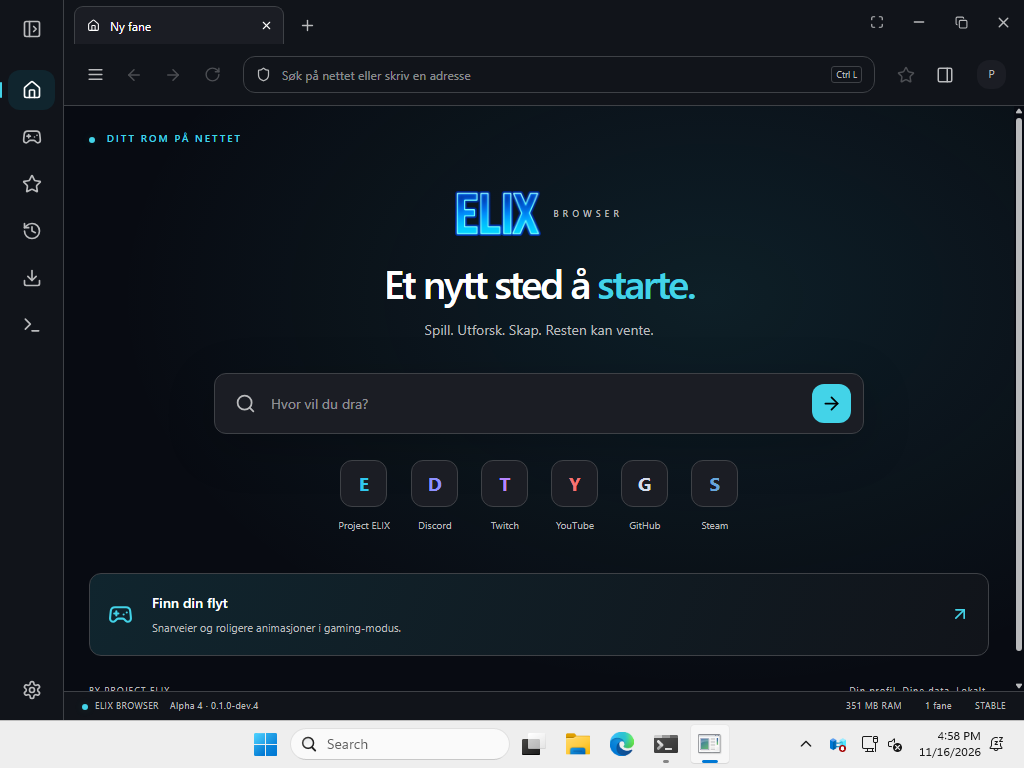
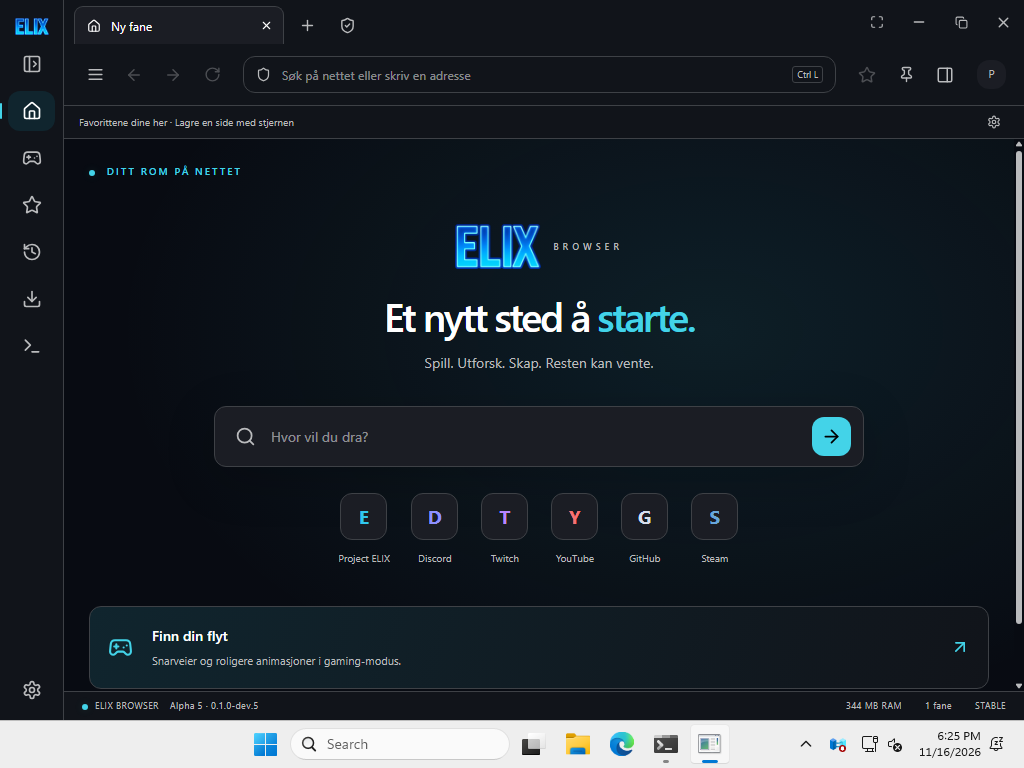
Publish verified Alpha 5 website, Windows capture and validation record

diff --git a/website/index.html b/website/index.html
@@ -1,13 +1,17 @@
-<!doctype html><html lang="nb"><head><meta charset="utf-8"><meta name="viewport" content="width=device-width, initial-scale=1"><meta name="description" content="ELIX Browser: et minimalistisk Windows-prosjekt med gaming-design, Rust og ekte WebView2-utviklerverktøy."><title>ELIX Browser Alpha 4 — Last ned for Windows</title><link rel="icon" type="image/png" href="elix-mark.png"><link rel="stylesheet" href="style.css?v=alpha4-1"><script src="releases.js?v=alpha4-1" type="module"></script></head><body>
+<!doctype html><html lang="nb"><head><meta charset="utf-8"><meta name="viewport" content="width=device-width, initial-scale=1"><meta name="description" content="ELIX Browser: et minimalistisk Windows-prosjekt med gaming-design, Rust og ekte WebView2-utviklerverktøy."><title>ELIX Browser Alpha 5 — Last ned for Windows</title><link rel="icon" type="image/png" href="elix-mark.png"><link rel="stylesheet" href="style.css?v=alpha5-1"><script src="releases.js?v=alpha5-1" type="module"></script></head><body>
 <header><a class="brand" href="#"><img src="elix-mark.png" alt="ELIX"><span><small>BROWSER</small></span></a><nav aria-label="Hovedmeny"><a href="#opplevelsen">Opplevelsen</a><a href="#innstillinger">Innstillinger</a><a href="#utvikler">For utviklere</a><a href="#utgivelser">Utgivelser</a><a class="nav-button" href="#last-ned">Windows ↓</a></nav></header>
-<main><section class="hero"><div class="eyebrow"><span class="dot"></span> ALPHA 4 · 0.1.0-dev.4 · WINDOWS</div><h1>Ditt rom.<br>Ditt tempo.<br><em>Din nettleser.</em></h1><p class="intro">Et rent skrivebord på nettet. ELIX samler surfing, gaming og utviklerverktøy i ett rolig, mørkt grensesnitt.</p><div class="hero-actions"><a class="primary" href="#last-ned">Prøv Alpha 4 <span>↗</span></a><a href="https://github.com/project-elix/elix-browser">Utforsk prosjektet →</a></div><p class="small" id="hero-status">Alpha 4 er tilgjengelig for Windows x64. Ingen egen server nødvendig.</p><div class="orbit" aria-hidden="true"><span><img src="elix-mark.png" alt="" class="orbit-logo"></span><i></i><b>ELIX / 01</b></div></section>
-<section class="product" id="opplevelsen"><div class="section-label"><span>01 / OPPLEVELSEN</span><span>MINDRE STØY. MER PLASS.</span></div><figure><img src="windows-start.png" alt="Skjermbilde av ELIX sitt faktiske grensesnitt med faner, søk og snarveier" width="1024" height="768"><figcaption>Alpha 4 installert på Windows. Velg Developer i innstillingene for kommende alpha-oppdateringer.</figcaption></figure><div class="feature-columns"><article><span>01</span><h2>En fane til.<br>Uten rotet.</h2><p>Adressefelt, navigasjon, bokmerker og historikk. Egne profiler holder cookies og nettleserdata adskilt.</p></article><article><span>02</span><h2>Plass til<br>neste økt.</h2><p>Gaming-dashboard, fem temaer og dine egne farger. Velg kompakt visning og færre animasjoner. Valgfri dvale frigjør nettvisninger.</p></article><article><span>03</span><h2>Dine data.<br>På din maskin.</h2><p>Lokale bokmerker, historikk og innstillinger. Ingen automatisk opplasting av diagnostikk eller surfehistorikk.</p></article></div></section>
-<section class="configuration" id="innstillinger"><div class="section-label"><span>NYTT / TILPASS ELIX</span><span>INKLUDERT I ALPHA 4</span></div><h2>Sett ditt eget preg på ELIX.</h2><p>Åpne Innstillinger fra sidemenyen, eller skriv <code>elix://settings</code> i adressefeltet. Velg kategori for å finne det du trenger.</p><div class="feature-columns"><article><span>FARGER OG UTSEENDE</span><h3>Fem temaer. Dine farger.</h3><p>Velg et ferdig tema eller egen aksent- og bakgrunnsfarge. Juster avrundede hjørner, kompakt visning, fargespill på startsiden og animasjoner. Trykk «Lagre utseende».</p></article><article><span>NY SIDEMENY</span><h3>Ikoner, tekst eller mer plass.</h3><p>Utvid sidemenyen med navn på knappene, bruk bare ikoner eller skjul den helt. Menyknappen ved adressefeltet henter den fram igjen. Valget lagres. F11 gir fullskjerm, Escape går ut.</p></article><article><span>OPPDATERINGER</span><h3>Velg Developer for alpha.</h3><p>Under Oppdateringer velger du «Developer» eller «Motta alpha-oppdateringer». Trykk deretter «Se etter oppdateringer». Du velger selv når en ny versjon skal installeres.</p></article></div><aside class="update-help"><h3>Oppdater direkte fra Alpha 3</h3><p>Velg <strong>Innstillinger → Oppdateringer → Developer → Se etter oppdateringer</strong>. Når Alpha 4 tilbys, trykker du «Oppdater nå». Etter nedlasting og signaturkontroll velger du «Installer og start på nytt».</p><p>Alpha 4 viser kanalstatus tydeligere når en kanal mangler utgivelsesinformasjon. Stable og Beta har ingen utgivelser ennå. <strong>0.1.0-dev.4 betyr Alpha 4.</strong> Farger og brukerdata beholdes.</p></aside></section>
+<main><section class="hero"><div class="eyebrow"><span class="dot"></span> ALPHA 5 · 0.1.0-dev.5 · WINDOWS</div><h1>Ditt rom.<br>Ditt tempo.<br><em>Din nettleser.</em></h1><p class="intro">Et rent skrivebord på nettet. ELIX samler surfing, gaming og utviklerverktøy i ett rolig, mørkt grensesnitt.</p><div class="hero-actions"><a class="primary" href="#last-ned">Prøv Alpha 5 <span>↗</span></a><a href="https://github.com/project-elix/elix-browser">Utforsk prosjektet →</a></div><p class="small" id="hero-status">Alpha 5 er tilgjengelig for Windows x64. Ingen egen server nødvendig.</p><div class="orbit" aria-hidden="true"><span><img src="elix-mark.png" alt="" class="orbit-logo"></span><i></i><b>ELIX / 01</b></div></section>
+<section class="product" id="opplevelsen"><div class="section-label"><span>01 / OPPLEVELSEN</span><span>MINDRE STØY. MER PLASS.</span></div><figure><img src="windows-start.png?v=alpha5-1" alt="ELIX Browser Alpha 5 installert på Windows med sidemeny, faner og adressefelt" width="1024" height="768"><figcaption>Alpha 5 installert på Windows. Velg Developer i innstillingene for kommende alpha-oppdateringer.</figcaption></figure><div class="feature-columns"><article><span>01</span><h2>En fane til.<br>Uten rotet.</h2><p>Fest faner, finn tilbake med Ctrl+H og få adresseforslag fra lokale besøk, tidligere søk og bokmerker. Fanene viser nettsidens eget ikon.</p></article><article><span>02</span><h2>Plass til<br>neste økt.</h2><p>Gaming-dashboard, fem temaer og dine egne farger. Velg kompakt visning og færre animasjoner. Valgfri dvale frigjør nettvisninger.</p></article><article><span>03</span><h2>Dine data.<br>På din maskin.</h2><p>Egne profiler, private faner og lokale innstillinger. Nedlastingsloggen for vanlige faner huskes etter omstart. Ingen automatisk opplasting av diagnostikk eller surfehistorikk.</p></article></div></section>
+<section class="configuration" id="innstillinger"><div class="section-label"><span>NYTT / TILPASS ELIX</span><span>INKLUDERT I ALPHA 5</span></div><h2>Sett ditt eget preg på ELIX.</h2><p>Åpne Innstillinger fra sidemenyen, eller skriv <code>elix://settings</code> i adressefeltet. Velg kategori for å finne det du trenger.</p><div class="feature-columns"><article><span>FARGER OG UTSEENDE</span><h3>Fem temaer. Dine farger.</h3><p>Velg tema, aksent- og bakgrunnsfarge, avrundede hjørner, kompakt visning og animasjoner. Trykk «Lagre utseende» for å beholde valgene etter omstart.</p></article><article><span>SIDEMENY OG BOKMERKER</span><h3>Favorittene der du vil ha dem.</h3><p>Velg ikoner, ikoner med tekst eller skjult sidemeny. Under «Farger og utseende → Bokmerker» velger du venstremenyen, under adressefeltet eller skjulte snarveier. Trykk «Lagre utseende». Menyknappen ved adressefeltet viser sidemenyen igjen.</p></article><article><span>FANER OG LOGG</span><h3>Fest de du bruker mest.</h3><p>Trykk på festeknappen ved adressefeltet, eller høyreklikk på en fane og velg «Fest fane». Vanlige festede faner huskes etter omstart. Ctrl+H åpner loggen med søk og klokkeslett. Ctrl+J åpner nedlastinger.</p></article><article><span>PRIVATMODUS OG TILLATELSER</span><h3>Et eget privat besøk.</h3><p>Åpne en privat fane med skjoldknappen eller Ctrl+Shift+N. Private besøk tas ikke med i loggen eller lagrede faner. Kamera og mikrofon krever et valg for hver forespørsel; ELIX viser hvilket nettsted som ber om tilgang.</p></article><article><span>PASSORD OG AUTOFYLL</span><h3>Velg hva profilen husker.</h3><p>Under «Passord og autofyll» kan du slå på tilbud om passordlagring og autofyll av navn og adresser. Begge er av som standard. Du kan slette alle lagrede passord i aktiv profil. Enkeltpassord kan foreløpig ikke vises eller redigeres.</p></article><article><span>UTVIDELSER</span><h3>Legg til fra en lokal mappe.</h3><p>Under «Utvidelser» velger du en utpakket mappe med manifest.json. Listen lar deg slå utvidelser av og på eller fjerne dem fra profilen. Chrome Nettmarked og egne popupknapper i verktøylinjen støttes ikke. Utvidelser er av i private faner.</p></article></div><aside class="update-help"><h3>Oppdater direkte fra Alpha 3 eller 4</h3><p>Velg <strong>Innstillinger → Oppdateringer → Developer → Se etter oppdateringer</strong>. Når Alpha 5 tilbys, trykker du «Oppdater nå». Etter nedlasting og signaturkontroll velger du «Installer og start på nytt».</p><p><strong>0.1.0-dev.5 betyr Alpha 5.</strong> Farger, profiler, bokmerker og øvrige brukerdata beholdes. Stable og Beta har ingen utgivelser ennå. Et kanalbytte nedgraderer ikke nettleseren.</p></aside></section>
 <section class="developer" id="utvikler"><div><div class="eyebrow">02 / ÅPNE PANSERET</div><h2>Verktøy for deg<br>som vil <em>forstå.</em></h2><p>Aktiver Developer Mode og åpne nettsidens egne WebView2 DevTools. Inspiser DOM og CSS, feilsøk JavaScript og følg nettverkstrafikken.</p><div class="keys"><kbd>F12</kbd><span>eller</span><kbd>Ctrl</kbd> + <kbd>Shift</kbd> + <kbd>I</kbd></div><p class="small">Tilgjengelig for alle som slår det på i innstillingene.</p></div><div class="terminal"><div class="terminal-top"><i></i><i></i><i></i><span>elix://developer</span></div><p><span class="cyan">↳</span> Ressursmålinger</p><ul><li>CPU og RAM for ELIX-prosessene</li><li>Minnehistorikk og prosessantall</li><li>WebView2- og systemversjoner</li><li>Hoveddokumentets HTTP-status</li><li>Lokale hendelses- og oppdateringslogger</li></ul><div class="terminal-note">Faktiske målinger.<br>Utilgjengelige verdier merkes tydelig.</div></div></section>
-<section class="download-section" id="last-ned"><div class="eyebrow">03 / WINDOWS</div><h2>Neste stopp: <em>ELIX.</em></h2><p id="download-intro">Test ELIX på din egen Windows-PC. Nettleseren kjører lokalt og trenger ingen ELIX-server.</p><div class="release-box" id="alpha"><div><span class="pill">ALPHA 4 · TESTVERSJON</span><h3>ELIX Browser Alpha 4</h3><p id="alpha-date">0.1.0-dev.4 · Utgitt 16. november 2026 · Windows x64</p></div><a id="alpha-download" class="primary" href="https://github.com/project-elix/elix-browser/releases/download/v0.1.0-dev.4/ELIX.Browser_0.1.0-dev.4_x64-setup.exe">Last ned Alpha 4 <span>↓</span></a></div><p class="small" id="alpha-status">Publisert. Nedlasting og permanent oppdateringssignatur er kontrollert. <a href="https://github.com/project-elix/elix-browser/releases/tag/v0.1.0-dev.4">Utgivelsesnotater og signatur ↗</a></p><p class="small">Har du Alpha 3 på Developer-kanalen, velg «Se etter oppdateringer» og «Oppdater nå». Alpha 1/2 oppgraderes manuelt uten å slette brukerdata. Velg deretter Developer under Innstillinger → Oppdateringer. Kommende alpha-versjoner tilbys i nettleseren, og signaturen kontrolleres før installasjon. Du velger selv om oppdateringen skal installeres. Programmet er ikke Authenticode-signert, så Windows kan vise «ukjent utgiver» eller SmartScreen. Dette er en tidlig testversjon.</p><details><summary>Stabile utgivelser</summary><div class="release-box"><div><span class="pill" id="release-pill">UNDER UTVIKLING</span><h3 id="release-version">Ingen stabil utgivelse ennå</h3><p id="release-date">Nedlasting er ikke åpnet.</p></div><a id="download-button" class="primary disabled" aria-disabled="true">Last ned for Windows <span>↓</span></a></div><p class="small" id="release-status" role="status">Sjekker offisiell utgivelseskanal …</p></details><div class="requirements"><div><h3>Systemkrav</h3><p>Windows 11, 64-bit (x64). Microsoft Edge WebView2 Evergreen Runtime. Installasjonsprogrammet henter runtime ved behov. Nettforbindelse kreves for dette.</p><p class="small">ARM64, andre operativsystemer og maskinvareminimum er ikke kvalifisert i første versjon.</p></div><div><h3>Kom i gang</h3><ol><li>Last ned Alpha 4-installasjonsfilen med knappen over.</li><li>Kjør installasjonen for din Windows-bruker.</li><li>Åpne ELIX Browser og skriv inn en adresse.</li><li>Velg Innstillinger → Oppdateringer → Developer for kommende testversjoner.</li><li>Aktiver utviklermodus under Innstillinger hvis du ønsker DevTools.</li></ol></div></div></section>
-<section class="releases" id="utgivelser"><div class="section-label"><span>04 / UTGIVELSER</span><a href="https://github.com/project-elix/elix-browser/releases">Alle publiserte versjoner ↗</a></div><h2>Hva er nytt?</h2><pre id="release-notes">Alpha 4 · 0.1.0-dev.4 · 16. november 2026
+<section class="download-section" id="last-ned"><div class="eyebrow">03 / WINDOWS</div><h2>Neste stopp: <em>ELIX.</em></h2><p id="download-intro">Test ELIX på din egen Windows-PC. Nettleseren kjører lokalt og trenger ingen ELIX-server.</p><div class="release-box" id="alpha"><div><span class="pill">ALPHA 5 · TESTVERSJON</span><h3>ELIX Browser Alpha 5</h3><p id="alpha-date">0.1.0-dev.5 · Utgitt 16. november 2026 · Windows x64</p></div><a id="alpha-download" class="primary" href="https://github.com/project-elix/elix-browser/releases/download/v0.1.0-dev.5/ELIX.Browser_0.1.0-dev.5_x64-setup.exe">Last ned Alpha 5 <span>↓</span></a></div><p class="small" id="alpha-status">Publisert. Nedlasting og permanent oppdateringssignatur er kontrollert. <a href="https://github.com/project-elix/elix-browser/releases/tag/v0.1.0-dev.5">Utgivelsesnotater og signatur ↗</a></p><p class="small">Har du Alpha 3 eller 4 på Developer-kanalen, velg «Se etter oppdateringer» og «Oppdater nå». Alpha 1/2 oppgraderes manuelt uten å slette brukerdata. Velg deretter Developer under Innstillinger → Oppdateringer. Kommende alpha-versjoner tilbys i nettleseren, og signaturen kontrolleres før installasjon. Du velger selv om oppdateringen skal installeres. Programmet er ikke Authenticode-signert, så Windows kan vise «ukjent utgiver» eller SmartScreen. Dette er en tidlig testversjon.</p><details><summary>Stabile utgivelser</summary><div class="release-box"><div><span class="pill" id="release-pill">UNDER UTVIKLING</span><h3 id="release-version">Ingen stabil utgivelse ennå</h3><p id="release-date">Nedlasting er ikke åpnet.</p></div><a id="download-button" class="primary disabled" aria-disabled="true">Last ned for Windows <span>↓</span></a></div><p class="small" id="release-status" role="status">Sjekker offisiell utgivelseskanal …</p></details><div class="requirements"><div><h3>Systemkrav</h3><p>Windows 11, 64-bit (x64). Microsoft Edge WebView2 Evergreen Runtime. Installasjonsprogrammet henter runtime ved behov. Nettforbindelse kreves for dette.</p><p class="small">ARM64, andre operativsystemer og maskinvareminimum er ikke kvalifisert i første versjon.</p></div><div><h3>Kom i gang</h3><ol><li>Last ned Alpha 5-installasjonsfilen med knappen over.</li><li>Kjør installasjonen for din Windows-bruker.</li><li>Åpne ELIX Browser og skriv inn en adresse.</li><li>Velg Innstillinger → Oppdateringer → Developer for kommende testversjoner.</li><li>Aktiver utviklermodus under Innstillinger hvis du ønsker DevTools.</li></ol></div></div></section>
+<section class="releases" id="utgivelser"><div class="section-label"><span>04 / UTGIVELSER</span><a href="https://github.com/project-elix/elix-browser/releases">Alle publiserte versjoner ↗</a></div><h2>Hva er nytt?</h2><pre id="release-notes">Alpha 5 · 0.1.0-dev.5 · 16. november 2026
 
-Ny sidemeny: bare ikoner, ikoner med tekst eller helt skjult. Innstillinger er delt i kategorier. Alpha-navnet vises tydelig sammen med versjonen. Tomme eller utilgjengelige oppdateringskanaler får en informativ melding. Meny- og fargeendringer beholder en ventende oppdatering.
+ELIX-logoen er tilbake. Fanene viser ekte favikoner og kan festes. Adressefeltet foreslår lokale besøk, tidligere søk og bokmerker. Bokmerker kan ligge til venstre eller under adressefeltet. Ctrl+H åpner loggen. Oppstart og nettsideinnlasting viser status og feil tydeligere.
 
-Ingen egen server kreves. Alpha 3 på Developer-kanalen kan hente oppdateringen direkte i ELIX. Eldre alpha-utgaver oppgraderes manuelt. Oppdateringssignaturen er ikke et Windows-utgiversertifikat. Stabil utgivelse kommer etter videre testing.</pre><details><summary>Stable, Beta eller Developer?</summary><p>Stable er for ordinære utgivelser. Beta gir tidlig tilgang og kan ha feil. Developer er eksperimentell. Alle offisielle oppdateringer må være digitalt signert. Developer gir alpha-oppdateringer. Stable har ennå ingen publisert versjon. Et kanalbytte nedgraderer ikke en nyere installert versjon.</p></details><details><summary>Hva er ikke klart i første versjon?</summary><p>Utvidelser, privatmodus, passordbehandling, flere hovedvinduer, nettsidetillatelser for kamera og mikrofon, automatisk krasjinnsending og ressursmålinger per fane er ikke implementert. Dvale laster siden på nytt og kan miste ulagrede skjemaer. Den automatiserte, signerte oppgraderingen fra 0.1.0 til 0.1.1 er testet på Windows. Manuelle tester av skjermskalering, avbrudd og installasjonsgjenoppretting gjenstår før stabil lansering.</p></details><details id="personvern"><summary>Personvern</summary><p>ELIX lagrer historikk, bokmerker, innstillinger og profildata lokalt. WebView2 lagrer blant annet cookies og nettsteddata i den valgte profilen. Nettsider du besøker, Google ved søk, Microsoft ved runtime-installasjon og GitHub ved oppdateringssjekk mottar nødvendige nettverksforespørsler, inkludert IP-adresse.</p><p>Ingen automatisk telemetri eller opplasting av historikk. Diagnostikk kan eksporteres lokalt etter samtykke og inneholder systemversjoner, ressursmålinger og faste hendelseskoder. Eksporten utelater URL-er, cookies, profilnavn og lokale stier. Du avgjør selv om filen skal deles.</p><p>Dette er produktets tekniske personverninformasjon under utvikling. Endelig informasjon om behandlingsansvarlig og kontaktpunkt må ferdigstilles før stabil lansering.</p></details><details><summary>Motor, ytelse og signering</summary><p>Rust håndterer applikasjonslogikk, lagring og systemintegrasjon. WebView2 står for nettsider og JavaScript. Rust i seg selv gjør ikke nettsider raskere enn Chromium. Vi publiserer ingen sammenligningstall før de er målt under like forhold.</p><p>Tauri-oppdateringssignaturer beskytter oppdateringspakken. De er noe annet enn Windows Authenticode. Windows kan vise en SmartScreen-advarsel for bygg uten etablert utgiversignatur.</p></details></section>
+Nedlastingsloggen beholdes etter omstart. Faktisk fremdrift, pause, fortsett og avbryt er tilgjengelig mens nedlastingen fortsatt finnes i nettleserøkten. Avbrutte nedlastinger må startes på nytt etter at ELIX lukkes.
+
+Private faner, forespørsler om kamera og mikrofon, valgfri passordlagring og autofyll samt utpakkede utvidelser per profil er lagt til. Se begrensningene nedenfor.
+
+Alpha 3 og 4 på Developer-kanalen kan hente oppdateringen direkte i ELIX. Alpha 1/2 oppgraderes manuelt. Ingen egen server kreves. Oppdateringssignaturen er ikke et Windows-utgiversertifikat.</pre><details><summary>Stable, Beta eller Developer?</summary><p>Stable er for ordinære utgivelser. Beta gir tidlig tilgang og kan ha feil. Developer er eksperimentell. Alle offisielle oppdateringer må være digitalt signert. Developer gir alpha-oppdateringer. Stable har ennå ingen publisert versjon. Et kanalbytte nedgraderer ikke en nyere installert versjon.</p></details><details><summary>Nedlastinger: hva blir lagret?</summary><p>Fullførte filer og nedlastingsloggen beholdes etter omstart, adskilt per profil. ELIX viser mottatte byte og total størrelse når den er kjent. Pause, fortsett og avbryt styrer den faktiske nedlastingen. Fortsett tilbys når motoren støtter det. Fullfør eller avbryt nedlastingen før du lukker fanen som startet den; ELIX hindrer lukking mens overføringen er aktiv eller satt på pause. Åpner du nedlastinger eller andre interne sider fra denne fanen, åpnes de i en egen fane.</p><p>En nedlasting kan ikke fortsettes fra samme punkt etter at ELIX er lukket. Uferdige nedlastinger merkes som avbrutt og kan startes på nytt. Filer fra private faner beholdes også på disken, men den private nedlastingslisten lagres ikke.</p></details><details><summary>Begrensninger i Alpha 5</summary><p>Utvidelser installeres fra utpakkede lokale mapper, ikke direkte fra Chrome Nettmarked. Behold mappen på samme sted. Utvidelser som krever en verktøylinjeknapp eller popup, kan ha begrenset funksjonalitet.</p><p>Passord lagres og fylles inn av WebView2. ELIX har ingen liste for visning, eksport eller redigering av enkeltpassord. Å slå av nye passordlagringer sletter ikke det som allerede er lagret, og tidligere passord kan fortsatt fylles inn. Private faner lagrer ikke passord. Bruk «Slett lagrede passord i denne profilen» hvis du vil fjerne dem.</p><p>Kamera og mikrofon krever godkjenning per forespørsel; valget huskes ikke. Andre nettstedstillatelser er fortsatt blokkert. Flere hovedvinduer, automatisk krasjinnsending og ressursmålinger per fane er ikke implementert. Dvale laster siden på nytt og kan miste ulagrede skjemaer. Videre testing av skjermskalering, avbrudd og installasjonsgjenoppretting gjenstår før stabil lansering.</p></details><details id="personvern"><summary>Personvern</summary><p>ELIX lagrer historikk, bokmerker, innstillinger og profildata lokalt. WebView2 lagrer blant annet cookies, nettsteddata og eventuelle lagrede passord i den valgte profilen. Private faner bruker InPrivate og tas ikke med i lagret historikk eller fanegjenoppretting. Filer du laster ned og bokmerker du uttrykkelig lagrer, beholdes også fra private faner. Nettsider du besøker, Google ved søk, Microsoft ved runtime-installasjon og GitHub ved oppdateringssjekk mottar nødvendige nettverksforespørsler, inkludert IP-adresse.</p><p>Adresseforslag lages lokalt; tekst sendes ikke til en ekstern forslagstjeneste mens du skriver. Ingen automatisk telemetri eller opplasting av historikk. Diagnostikk kan eksporteres lokalt etter samtykke og inneholder systemversjoner, ressursmålinger og faste hendelseskoder. Eksporten utelater URL-er, cookies, profilnavn og lokale stier. Du avgjør selv om filen skal deles.</p><p>Dette er produktets tekniske personverninformasjon under utvikling. Endelig informasjon om behandlingsansvarlig og kontaktpunkt må ferdigstilles før stabil lansering.</p></details><details><summary>Motor, ytelse og signering</summary><p>Rust håndterer applikasjonslogikk, lagring og systemintegrasjon. WebView2 står for nettsider og JavaScript. Rust i seg selv gjør ikke nettsider raskere enn Chromium. Vi publiserer ingen sammenligningstall før de er målt under like forhold.</p><p>Tauri-oppdateringssignaturer beskytter oppdateringspakken. De er noe annet enn Windows Authenticode. Windows kan vise en SmartScreen-advarsel for bygg uten etablert utgiversignatur.</p></details></section>
 </main><footer><a class="wordmark" href="#"><img src="elix-mark.png" alt="ELIX"> <small>BROWSER</small></a><span>By Project ELIX</span><a href="#personvern">Personvern</a><a href="https://github.com/project-elix/elix-browser">GitHub ↗</a></footer></body></html>

diff --git a/docs/VALIDATION.md b/docs/VALIDATION.md
@@ -75,3 +75,19 @@ Alpha 2 publication run [43897911998](https://github.com/project-elix/elix-brows
 Release source `20b61c2007bc699fdfb9299a7c1d4124d0b6e267`, run [43902529321](https://github.com/project-elix/elix-browser/actions/runs/43902529321). Both native Windows verification and the separate signed upgrade round trip passed on this source. The upgrade result explicitly verifies profiles, bookmarks, history, settings, cookies and profile files, with tampered/replayed packages rejected. Permanent production updater credentials have now been configured separately from those disposable test credentials. Windows Authenticode remains unconfigured.
 
 The signed production distributable installed and started successfully. Independent public-byte signature, signed-version and tamper-rejection checks passed. The initial publication needed fixes for draft lookup and post-publication asset URLs; gated recovery runs 43906863977 and 43907644207 completed successfully. The final Developer JSON and release index were checked against the published immutable installer URL and signature. Remaining manual acceptance limits above still apply.
+
+## Alpha 5 verification — 2026-11-16
+
+Source `ff4b710450c714759d73822b38211e9c86ab0c5a`, Windows run [43926494207](https://github.com/project-elix/elix-browser/actions/runs/43926494207): **passed** 19 JavaScript tests, 15 Windows Rust tests, production frontend build, NSIS installation/startup, native integration and the idle resource budget.
+
+Native checks exercised sidebar expansion/hiding and content bounds, settings categories, both bookmark placements, real Ctrl+H keyboard input with website focus, navigation/title/status/favicon, loading failure/recovery, private cookie/history/session isolation, native extension lifecycle and password preferences, microphone prompt/denial, remote IPC rejection, pinned session restoration and profile isolation. Download checks verified actual 8 MiB pause/resume bytes, separate simultaneous downloads of the same URL, persisted records, and active/paused cancellation that aborted the HTTP transfer before its full payload arrived.
+
+The native regression reproduced a discarded zero-byte response whose WebView2 State remained IN_PROGRESS while InterruptReason reported SERVER_CONTENT_LENGTH_MISMATCH and CanResume was false. The application now interprets that exact combination as failed; genuine later byte progress can recover. Successful explicit cancellation remains terminal despite stale native callbacks. Tests verified classification before manual cancellation and independently verified that cancellation stops network transfer. Distinct native attempts are not merged merely because their URLs match.
+
+The idle check measured 0% mean process-tree CPU and 336.1 MB peak summed working set in that runner. This is only a budget check, not a performance comparison. Exact WebView2 runtime version was not recorded in the successful job log. The remaining manual acceptance matrix above still applies.
+
+Signed release run [43926787374](https://github.com/project-elix/elix-browser/actions/runs/43926787374) passed native verification and the actual signed 0.1.0 → 0.1.1 installation/restart round trip on the same source. Profiles, bookmarks, history, settings, cookies and profile files survived; corrupt and replayed installers were rejected. The production build excluded smoke-test features and its signed distributable installed and launched successfully. Its actual Windows capture is [alpha5-windows.png](images/alpha5-windows.png).
+
[1 lines of base64/hex data omitted]
+
+Sites version 8, source `488cdaaf0208c1fa50ee2466afff37ed15d6b774`, was published successfully with the verified Alpha 5 download, actual signed-build Windows capture and the new settings descriptions. The live configuration section was visually checked; [publication capture](images/alpha5-site.jpg).

diff --git a/README.md b/README.md
@@ -10,7 +10,7 @@ Product site: https://elix-browser-download.andreasdan04.chatgpt.site
 
 ## Alpha test for Windows
 
-**[Download Alpha 3 for Windows x64](https://github.com/project-elix/elix-browser/releases/download/v0.1.0-dev.3/ELIX.Browser_0.1.0-dev.3_x64-setup.exe)** — version 0.1.0-dev.3, published 16 November 2026 after Windows verification and a separate installed-launch check. It needs no personal server. Install this version manually once over Alpha 1/2, then choose **Innstillinger → Motta alpha-oppdateringer** to receive future signed Developer updates. The installer has no Windows Authenticode publisher certificate. See [alpha installation and testing](docs/ALPHA-3.md) and the actual [published releases](https://github.com/project-elix/elix-browser/releases); do not use the source ZIP as an installer.
+**[Download Alpha 5 for Windows x64](https://github.com/project-elix/elix-browser/releases/download/v0.1.0-dev.5/ELIX.Browser_0.1.0-dev.5_x64-setup.exe)** — version 0.1.0-dev.5. It needs no personal server. Alpha 3/4 users can choose **Innstillinger → Oppdateringer → Developer → Se etter oppdateringer**. Install manually over Alpha 1/2 without deleting application data, then select Developer for future signed updates. The updater signature is separate from Windows Authenticode; the installer has no Authenticode publisher certificate. See [Alpha 5 changes and limitations](docs/alpha5.md), [validation evidence](docs/VALIDATION.md) and the actual [published releases](https://github.com/project-elix/elix-browser/releases); do not use the source ZIP as an installer.
 
 ## Run on Windows
 
